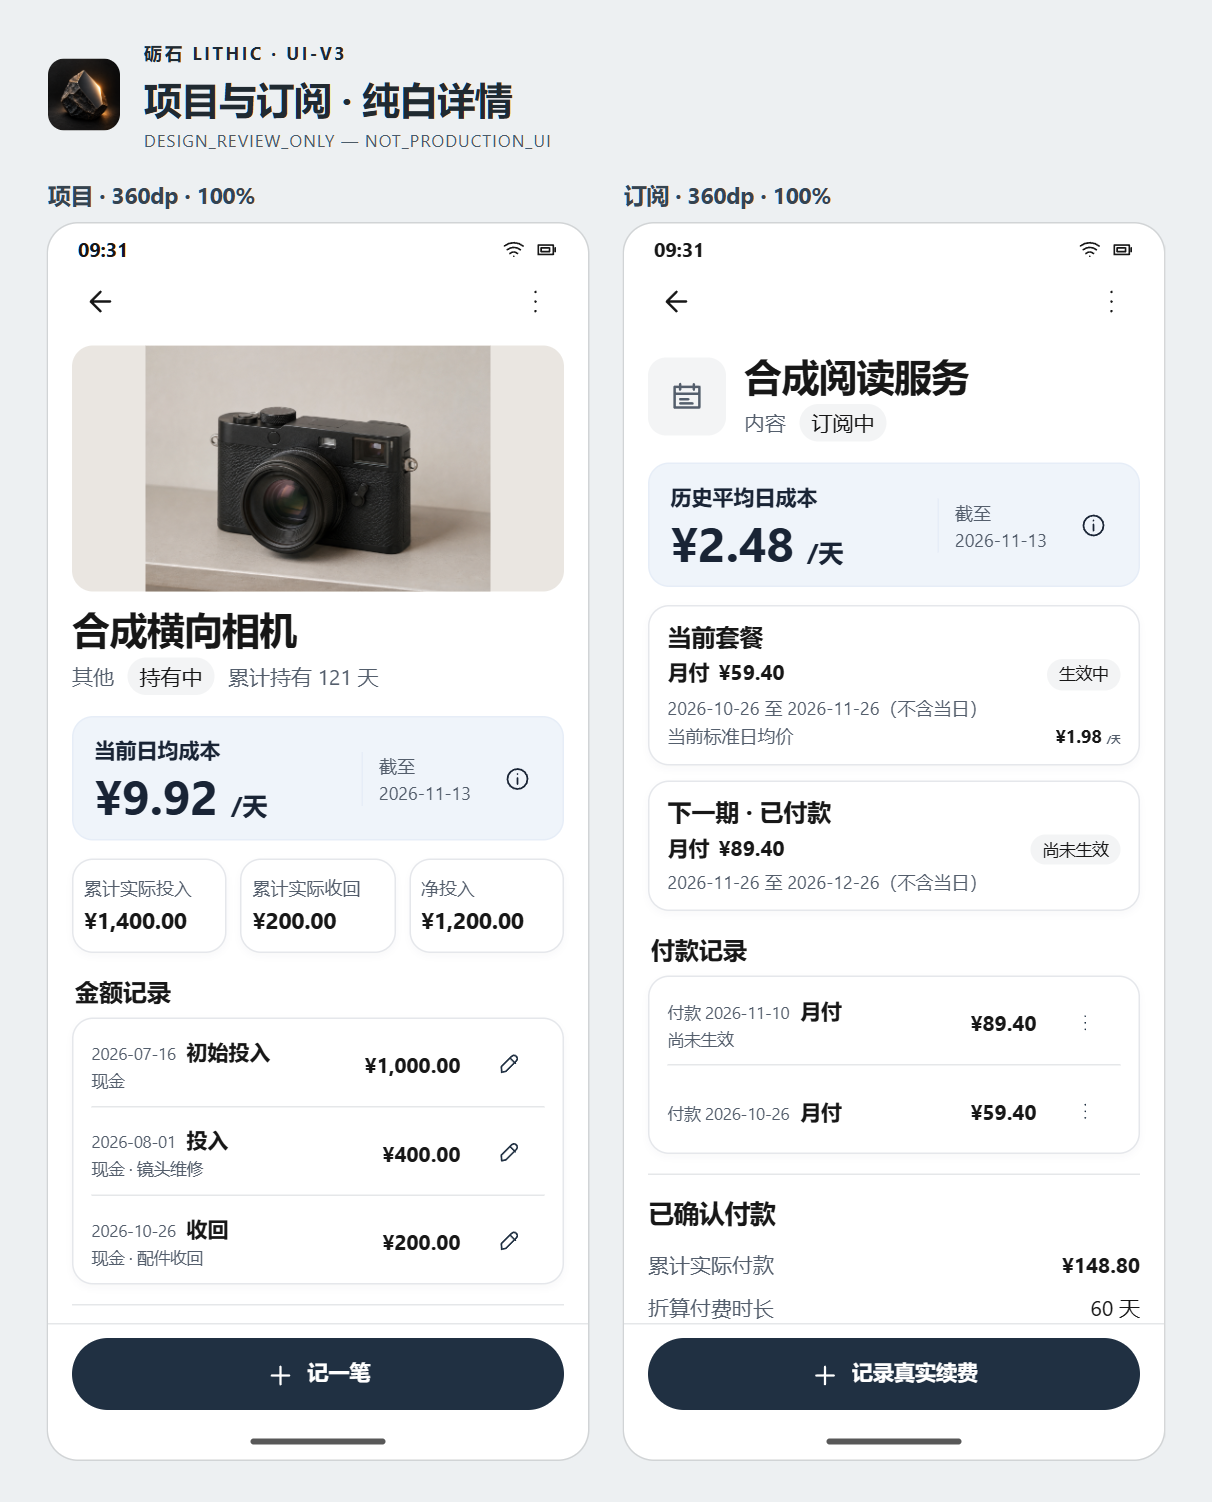
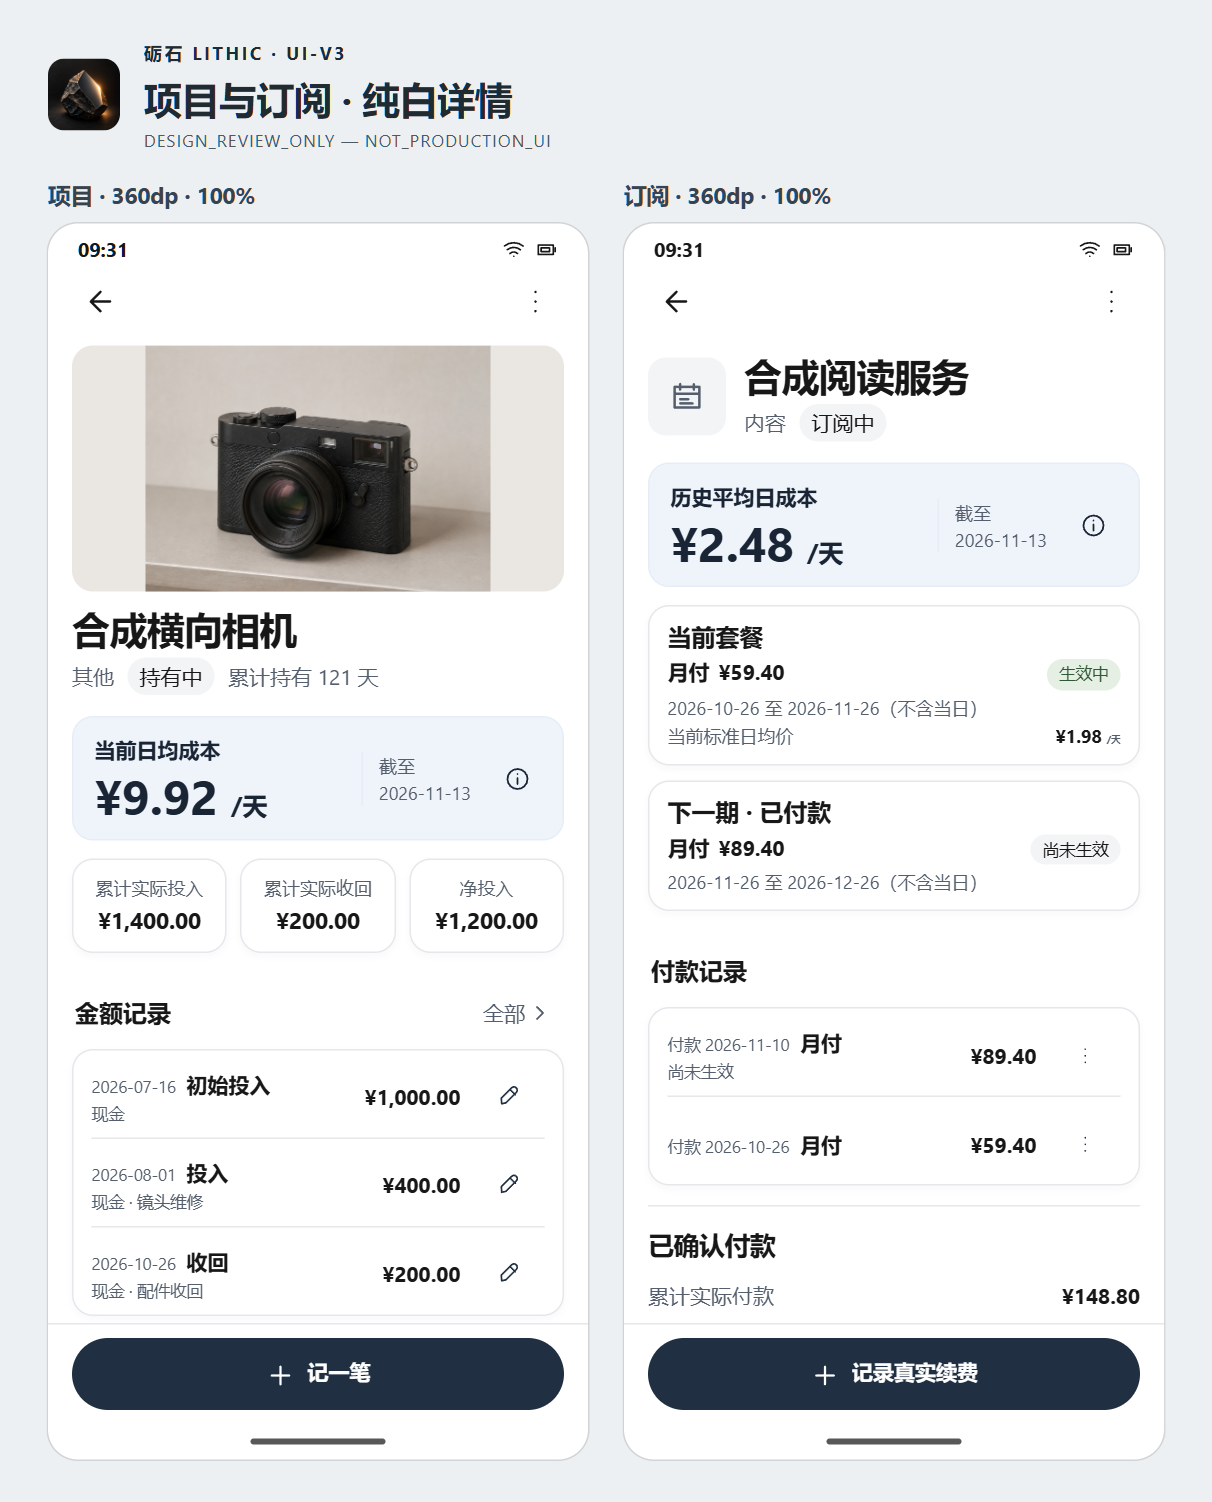
docs(design): align detail candidate with selected reference

diff --git a/docs/design/lithic-ui-v3-detail-visual-refinement-02/boards/detail.js b/docs/design/lithic-ui-v3-detail-visual-refinement-02/boards/detail.js
@@ -9,6 +9,7 @@ const glyphs = {
   loading: 'M20 12a8 8 0 1 1-8-8m8 0v5h-5',
   broken: 'M14 20H3V4h18v6M3 15l5-5 4 4m6-3 5 9H13zm0 4v2m0 2h.01',
   add: 'M12 5v14M5 12h14',
+  chevron: 'M9 6l6 6-6 6',
   edit: 'M13.5 5.5l5 5M4 20l4.5-1 11-11a2 2 0 0 0-5-5l-11 11L4 20Z',
 };
 const icon = name => '<svg aria-hidden="true" viewBox="0 0 24 24"><path d="' + glyphs[name] + '"/></svg>';
@@ -26,7 +27,7 @@ const cash = (value, unit = '', extra = '') => '<span class="money ' + extra + '
 const btn = (label, attr = '') => '<button class="detail-action" ' + attr + '>' + label + '</button>';
 const sec = (title, content) => '<section class="section"><h3>' + title + '</h3>' + content + '</section>';
 const line = (label, value) => '<div class="line"><span class="muted">' + label + '</span><span>' + value + '</span></div>';
-const state = label => '<span class="state">' + label + '</span>';
+const state = (label, tone = '') => '<span class="state' + (tone ? ' ' + tone : '') + '">' + label + '</span>';
 const camera = '<img src="../../lithic-ui-v3-03-details/boards/assets/synthetic-camera.png" alt="合成相机完整封面">';
 const registered = '<img src="../../lithic-ui-v3-02/boards/assets/reader.jpg" alt="已关联的合成阅读服务封面示例">';
 const photoCopy = {
@@ -60,8 +61,11 @@ function event(when, label, value, detail, action) {
     cash(value) + (action ? '<button class="icon-button row-control" aria-label="' + action + ' · ' + when + '">' +
       icon('edit') + '</button>' : '') + '</div></article>';
 }
-function recordsCard(title, records) {
-  return '<section class="record-group"><h3>' + title + '</h3><div class="group-card">' + records + '</div></section>';
+function recordsCard(title, records, showAll = false) {
+  const all = showAll ? '<button class="record-all" data-all-records aria-label="查看全部金额记录">全部' +
+    icon('chevron') + '</button>' : '';
+  return '<section class="record-group"><div class="record-heading"><h3>' + title + '</h3>' +
+    all + '</div><div class="group-card">' + records + '</div></section>';
 }
 function project(options) {
   const {read, photo = 'normal', empty, ended, long, linked, negative, zero, mediaActions} = options;
@@ -91,7 +95,7 @@ function project(options) {
       fact(linked ? '累计投入（含非现金折抵）' : '累计实际投入', long ? '9,999,999,999.99' : zero ? '0.00' : '1,400.00') +
       fact(linked ? '累计收回（含非现金折抵）' : '累计实际收回', long ? '0.00' : ended ? '450.00' : negative ? '1,800.00' : zero ? '0.00' : '200.00') +
       fact('净投入', long ? '9,999,999,999.99' : ended ? '950.00' : negative ? '−400.00' : zero ? '0.00' : '1,200.00') + '</div>')) +
-    recordsCard('金额记录', records) +
+    recordsCard('金额记录', records, !empty) +
     sec('资料与历史', line('开始拥有', date(long ? '2026-11-13' : '2026-07-16')) +
       (ended ? line('已记录结束日期', date('2026-11-02')) + line('结束原因', '转交闲置设备') : '') +
       (linked ? '<p class="muted">有关联换新，金额与日期不能单独修改。</p>' : '') + btn('查看成本历史'));
@@ -114,7 +118,7 @@ function subscription(options) {
     name + '</h2><p class="meta">内容 ' + state(ended ? '已停止' : paused ? '已暂停' : empty ? '已到期' : '订阅中') + '</p>' +
     (photo === 'broken' ? '<p class="muted small">封面暂不可用</p>' : '') + '</div></section>';
   const plan = ended || paused || empty ? '<p>当前无有效套餐</p>' + line('当前日均贡献', cash('0.00', '/天')) :
-    '<div class="plan-title"><b>月付 ' + cash(long ? '9,999,999,999.99' : '59.40') + '</b>' + state('生效中') + '</div>' +
+    '<div class="plan-title"><b>月付 ' + cash(long ? '9,999,999,999.99' : '59.40') + '</b>' + state('生效中', 'plan-active') + '</div>' +
     '<p class="muted small">2026-10-26 至 2026-11-26（不含当日）</p>' +
     line('当前标准日均价', cash(long ? '333,333,333.33' : '1.98', '/天'));
   const next = !long && !empty ? '<section class="plan"><h3>下一期 · 已付款</h3>' +
@@ -179,16 +183,27 @@ window.boardReady = document.fonts.ready.then(() => {
   root.querySelectorAll('.scroll').forEach(element => { element.scrollTop = Number(element.dataset.position || 0); });
 });
 
-// Read-only date inspection for the review board. Financial actions remain visual examples.
+// The design viewer only reads the facts already rendered in the originating frame.
 const modal = document.createElement('dialog');
 modal.className = 'preview-dialog';
+modal.setAttribute('aria-labelledby', 'preview-title');
 root.append(modal);
 root.addEventListener('click', event => {
-  const trigger = event.target.closest('button[data-payment-details]');
+  const trigger = event.target.closest('button[data-payment-details], button[data-all-records]');
   if (!trigger) return;
-  const details = trigger.nextElementSibling;
-  if (!(details instanceof HTMLTemplateElement)) return;
-  modal.innerHTML = '<h2>付款详情</h2><div class="preview-data"></div><form method="dialog"><button>关闭</button></form>';
-  modal.querySelector('.preview-data').append(details.content.cloneNode(true));
+  const all = trigger.hasAttribute('data-all-records');
+  const source = all ? trigger.closest('.record-group').querySelector('.group-card') : trigger.nextElementSibling;
+  const content = all ? source.cloneNode(true) : source.content.cloneNode(true);
+  if (all) {
+    content.className = 'all-record-list';
+    content.querySelectorAll('button').forEach(button => button.remove());
+  }
+  const frameStyle = getComputedStyle(trigger.closest('.screen'));
+  for (const property of ['--bg', '--ink', '--secondary', '--card-line', '--danger', '--scale']) {
+    modal.style.setProperty(property, frameStyle.getPropertyValue(property));
+  }
+  modal.innerHTML = '<h2 id="preview-title">' + (all ? '全部金额记录' : '付款详情') +
+    '</h2><div class="preview-data"></div><form method="dialog"><button>关闭</button></form>';
+  modal.querySelector('.preview-data').append(content);
   modal.showModal();
 });

diff --git a/docs/design/lithic-ui-v3-detail-visual-refinement-02/boards/detail.css b/docs/design/lithic-ui-v3-detail-visual-refinement-02/boards/detail.css
@@ -156,7 +156,7 @@ button:disabled { color: var(--secondary); }
   border: 1px solid var(--card-line); border-radius: var(--radius);
   background: var(--card); box-shadow: var(--shadow); min-width: 0;
 }
-.fact { display: grid; gap: 2px; padding: 9px 7px; }
+.fact { display: grid; gap: 2px; padding: 9px 7px; text-align: center; }
 .fact .muted { font-size: calc(12px * var(--scale)); }
 .fact .money { font-size: calc(15px * var(--scale)); }
 .plan { padding: 10px 12px; margin-bottom: 10px; }
@@ -166,7 +166,10 @@ button:disabled { color: var(--secondary); }
 .plan .state { font-size: calc(11px * var(--scale)); }
 .plan .line { margin-top: 1px; padding: 0; font-size: calc(12px * var(--scale)); }
 .record-group { margin: 16px 0 13px; }
-.record-group h3 { margin: 0 0 6px; padding-left: 2px; }
+.record-heading { display: flex; justify-content: space-between; align-items: center; gap: 8px; min-height: 48px; }
+.record-group h3 { margin: 0; padding-left: 2px; }
+.record-all { display: flex; align-items: center; gap: 2px; color: var(--secondary); white-space: nowrap; }
+.record-all svg { width: 16px; height: 16px; }
 .group-card { padding: 0 12px; }
 .group-card > p { padding: 10px 0; }
 .group-card .record:last-child { border-bottom: 0; }
@@ -184,7 +187,7 @@ button:disabled { color: var(--secondary); }
 .big .hero-date { border-inline-start: 0; padding: 7px 0 0; }
 .big .hero-date time { display: inline; }
 .big .facts { grid-template-columns: 1fr; }
-.big .fact { padding: 8px 12px; }
+.big .fact, .facts.stack .fact { padding: 8px 12px; text-align: start; }
 .big .record-title { display: flex; }
 .big .record .row-actions p { flex-basis: 100%; }
 .big .plan-title b { min-width: 0; }
@@ -199,10 +202,18 @@ button:disabled { color: var(--secondary); }
 .big .record-title b { display: block; margin-inline-start: 0; }
 .big .record-title .money { grid-row: 2; }
 .big .record-title .row-control { grid-row: 1 / span 2; grid-column: 2; }
-.preview-dialog { border: 1px solid #e5e7eb; border-radius: 14px; min-width: min(91vw, 320px); padding: 18px; }
+.preview-dialog {
+  color: var(--ink); background: var(--bg); border: 1px solid var(--card-line); border-radius: 14px;
+  width: min(calc(100vw - 32px), 420px); max-height: calc(100dvh - 32px);
+  padding: 18px; font-size: calc(14px * var(--scale));
+}
+.preview-dialog .small, .preview-dialog .date { font-size: calc(12px * var(--scale)); }
+.all-record-list .record-title { display: flex; align-items: baseline; }
 .preview-dialog::backdrop { background: #0006; }
 .preview-dialog h2, .preview-dialog p { margin: 0 0 6px; }
 .preview-dialog form { text-align: end; }
 
 .preview-actions { display: grid; gap: 10px; margin-block: 10px; border-top: 1px solid #e5e7eb; padding-top: 10px; }
-.preview-actions .danger { color: #932e33; }
+.preview-actions .danger { color: var(--danger); }
+.state.plan-active { background: #e5efe4; color: #315836; }
+.dark .state.plan-active { background: #293c2f; color: #d1e8d2; }

diff --git a/docs/design/lithic-ui-v3-detail-visual-refinement-02/REVIEW.md b/docs/design/lithic-ui-v3-detail-visual-refinement-02/REVIEW.md
@@ -2,7 +2,7 @@
 
 **DESIGN_REVIEW_ONLY — NOT_PRODUCTION_UI**
 
-设计基线 `492d472a9b241b8b4238d34a60a0d7c45d087c45`。已核对本机剪贴板双屏图与链接对话可读取的双屏附件。剪贴板图构图与对话描述吻合，卡片与主按钮之外还有一排捷径。对话附件保留相同配对结构，省去该行。工具未返回剪贴板图在原聊天中的消息级归属。[链接对话](chatgpt-conversation://6af58492-72fc-83ee-bfd5-1097afc56c90) · [V3-03 业务事实与保护](../lithic-ui-v3-03-details/BUSINESS_FACTS_AND_GUARDS.md)
+设计基线 `492d472a9b241b8b4238d34a60a0d7c45d087c45`。本轮用户直接附上的双屏图为首要视觉参考，原图已归档。此前对话中的精修样图仅供对照。已冻结首页作为按钮及主题参照，V3-03 提供业务事实和操作保护。[用户选中的双屏原图](boards/reference/user-selected-pair.png) · [链接对话](chatgpt-conversation://6af58492-72fc-83ee-bfd5-1097afc56c90) · [V3-03 业务事实与保护](../lithic-ui-v3-03-details/BUSINESS_FACTS_AND_GUARDS.md)
 
 ## 配对布局
 
@@ -10,18 +10,18 @@
 | --- | --- | --- |
 | 身份 | 返回与更多，下方用宽幅照片、项目名和一行可换行的类别、状态与持有时间识别记录。照片框采用约 2:1 的横幅，原图等比 Fit，空余区域用相邻中性色。无封面、读取中、不可用各自呈现。 | 返回与更多，下方用紧凑的已有封面或通用线形标识、服务名、类别和当前状态识别服务。 |
 | 核心成本 | 浅雾蓝卡片突出「当前日均成本」和「截至」。保留项目成本说明和已结束场景的原指标名称。 | 浅雾蓝卡片突出「历史平均日成本」。现有历史说明仍可查标准折算日、实际已过去的有效天数与截止日。 |
-| 成本事实 | 三张同规格财务卡依次为累计实际投入、累计实际收回、净投入。非现金折抵用现有完整标签，较长时重排。 | 当前套餐独立，显示真实当前价格、周期、标准日均价及生效边界。已确认付款且生效日迟于观察日时才显示下一期，注明「尚未生效」。累计实际付款与历史平均日成本分别标名。 |
-| 记录 | 金额记录置于一张带细分隔线的卡片，保持实际发生日升序及同日 ID 顺序。保留投入、收回、非现金折抵及行内纠错。 | 付款历史置于一张带细分隔线的卡片，按实际付款日降序，同日 ID 升序。付款行显示实际付款日与金额，覆盖区间和原纠错入口从该笔详情取得。有更多结果时沿用现有逐页加载。 |
+| 成本事实 | 三张同规格财务卡依次为累计实际投入、累计实际收回、净投入。非现金折抵用现有完整标签，较长时重排。 | 当前套餐独立，显示真实当前价格、周期、标准日均价及生效边界。存在已确认付款且生效日迟于观察日的记录时，将最早生效的一期作为下一期，注明「尚未生效」。全部已付周期仍可从付款历史核对。累计实际付款与历史平均日成本分别标名。 |
+| 记录 | 金额记录置于一张带细分隔线的卡片，保持实际发生日升序及同日 ID 顺序。保留投入、收回、非现金折抵及行内纠错。标题右侧的「全部」在画板中展开同一组记录的只读视图。 | 付款历史置于一张带细分隔线的卡片，按实际付款日降序，同日 ID 升序。付款行显示实际付款日与金额，覆盖区间和原纠错入口从该笔详情取得。有更多结果时沿用现有逐页加载。 |
 | 主操作 | 「记一笔」使用独立底部区域，由现有菜单选择记录投入或收回。已结束记录仍可补录实际结算。 | 「记录真实续费」占同样的底部区域。已停止时由更多中的「重新开通」进入既有路径。 |
 
 普通卡片候选为 12–16dp 圆角、约 1dp 低对比边框及极轻阴影。以纯白为主，成本卡用浅雾蓝提供唯一明显色块。岩白雾蓝保持暖底与更淡的蓝灰表面，深色黑灰以深蓝灰成本卡和表面明度区分。金额读数用主题正文色，符号和文字区分正负及状态。主按钮复用冻结首页深蓝黑、胶囊形与图文疏密，深色主题沿对应反差。成本说明保留一个 48dp 操作区，图标视觉尺寸取 16dp。[冻结首页项目图](../../evidence/lithic-home-final-polish-09-retry/projects-pure-white.png) · [冻结首页订阅图](../../evidence/lithic-home-final-polish-09-retry/subscriptions-pure-white.png)
 
 ## 与两张双屏参考的差异
 
-- **照片及服务形象**。参考中的品牌相机与醒目蓝色云图标改用合成相机和中性通用图标，项目图走 Fit。实际产品仍展示记录已有封面。
-- **金额及日期**。参考的金额只体现字号与对齐。画板使用 V3-03 的合成样本，在当前套餐和历史中保留付款日与覆盖边界的区别。
-- **记录入口**。参考的「全部」省去，现有项目详情正文可滚动浏览完整事件，成本历史继续走原入口。订阅两笔付款样本无下一页，更多记录沿实际 `hasMore` 提供加载。
-- **底部捷径**。剪贴板图主按钮下的三图标捷径按对话附件的精简结构省去。编辑、成本历史、以旧换新、订阅管理等沿用已存在的菜单或行入口。系统返回及原有详情导航范围由现有路由决定。
+- **照片及服务形象**。参考中的品牌相机与醒目蓝色云图标改用合成相机和中性通用图标。约 2:1 的横幅以 Fit 完整显示原图，在两侧留出中性色。实际产品仍展示记录已有封面。
+- **金额及日期**。参考的金额只体现字号与对齐。画板使用 V3-03 的合成样本，在当前套餐和历史中保留付款日与覆盖边界的区别。千分位仅为画板排版，实际产品沿用现有金额格式化。
+- **记录入口**。「全部」沿用参考的轻量文字和箭头。浏览器画板打开同一组记录的只读视图。Android 实施时需先确认如何在现有详情内展开完整记录，成本历史继续走原入口。订阅仅当确有更多结果时提供继续加载。
+- **底部捷径**。用户附图主按钮下的三图标捷径按对话附件的精简结构省去。编辑、成本历史、以旧换新、订阅管理等沿用已存在的菜单或行入口。系统返回及原有详情导航范围由现有路由决定。
 - **状态及装饰**。日期、持有或订阅状态均保留文字。多色记录圆点、日历及叠层装饰从主要读数周围移除，信息入口仍可取得统计口径。参考中分隔、卡片与底部动作的相对位置沿用。
 
 ## 合成样本核对
@@ -46,7 +46,7 @@
 - [项目三主题](boards/renders/project-themes.png) · [订阅三主题](boards/renders/subscription-themes.png) · [模拟 200% 字体](boards/renders/font-200.png)
 - [实际付款与折抵样本](boards/renders/history.png) · [读取与极端金额](boards/renders/states.png) · [本地可滚动画板](boards/index.html)
 
-Chromium 已核对两页各自的 360／400 逻辑宽度与 100%／模拟 200% 字体，共 8 组。未见正文横溢或固定按钮遮挡，控件盒最小 48 CSS px。已在浏览器验证付款日期面板打开、显示和关闭。金额与付款操作仅作为设计示意，菜单及写入守卫沿用 V3-03 合同。[布局数据](boards/layout-checks.json)
+Chromium 已核对两页各自的 360／400 逻辑宽度与 100%／模拟 200% 字体，共 8 组。未见正文横溢或固定按钮遮挡，控件盒最小 48 CSS px。已在浏览器验证付款日期面板，以及「全部」展开的日期、金额和原列表顺序。关闭「全部」后焦点回到原按钮。金额与付款操作仅作为设计示意，菜单及写入守卫沿用 V3-03 合同。[布局数据](boards/layout-checks.json)
 
 Android Compose、真实系统 200%、TalkBack、命中范围与实际导航均为 **NOT_RUN**。此前首页端侧证据保持原范围。
 
